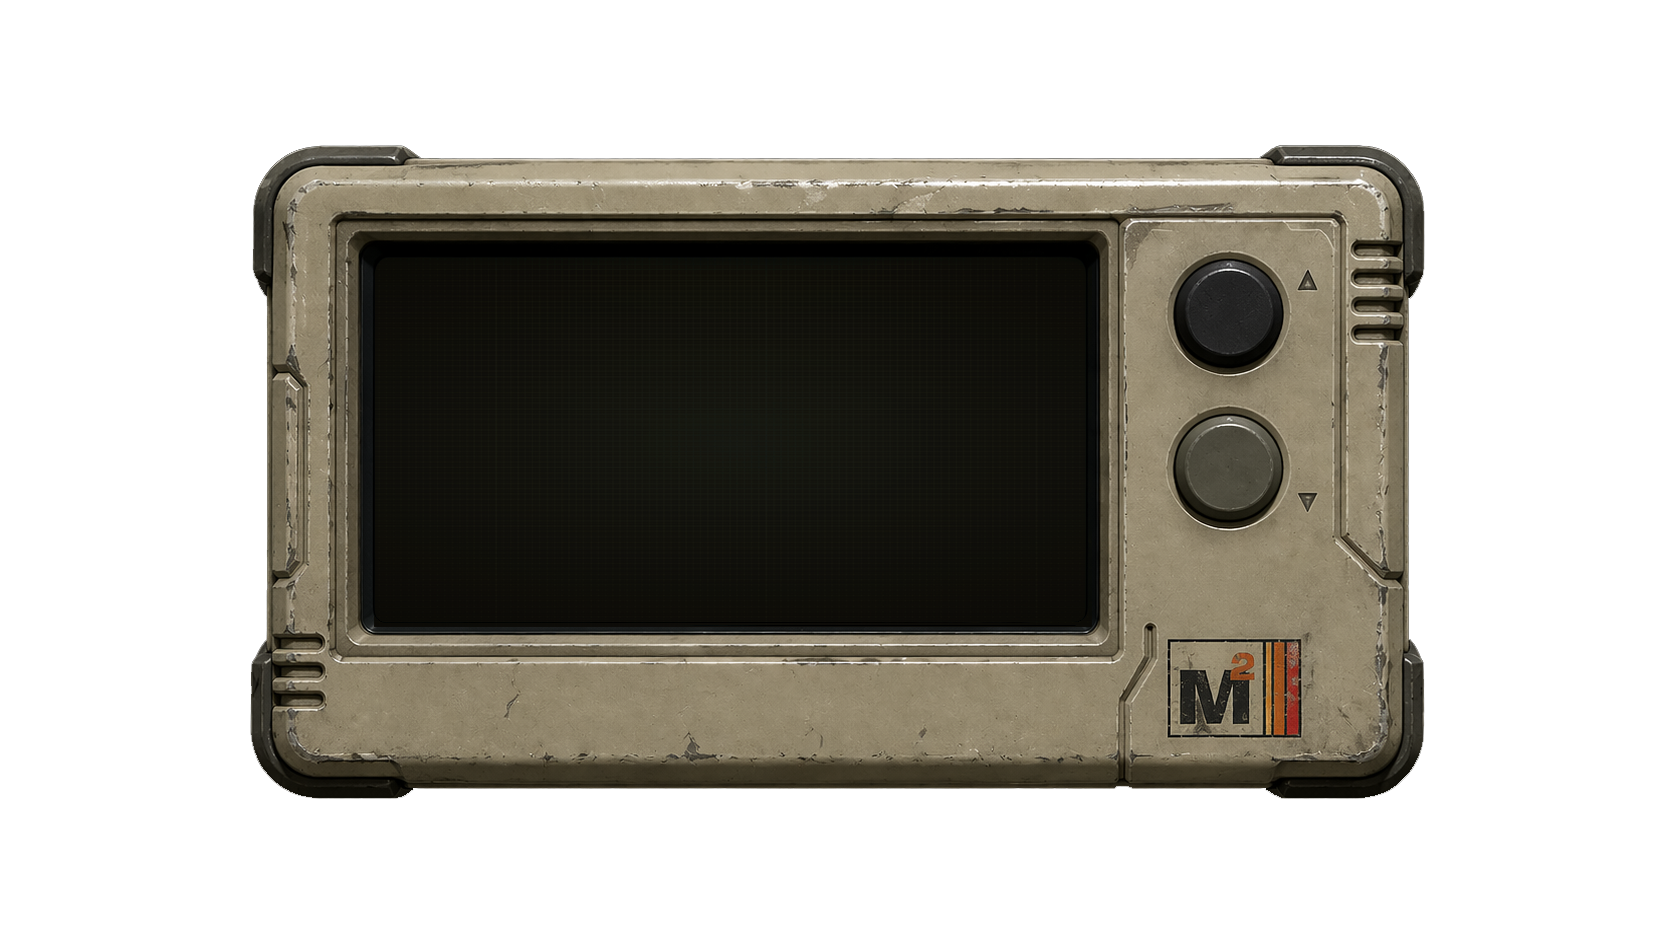
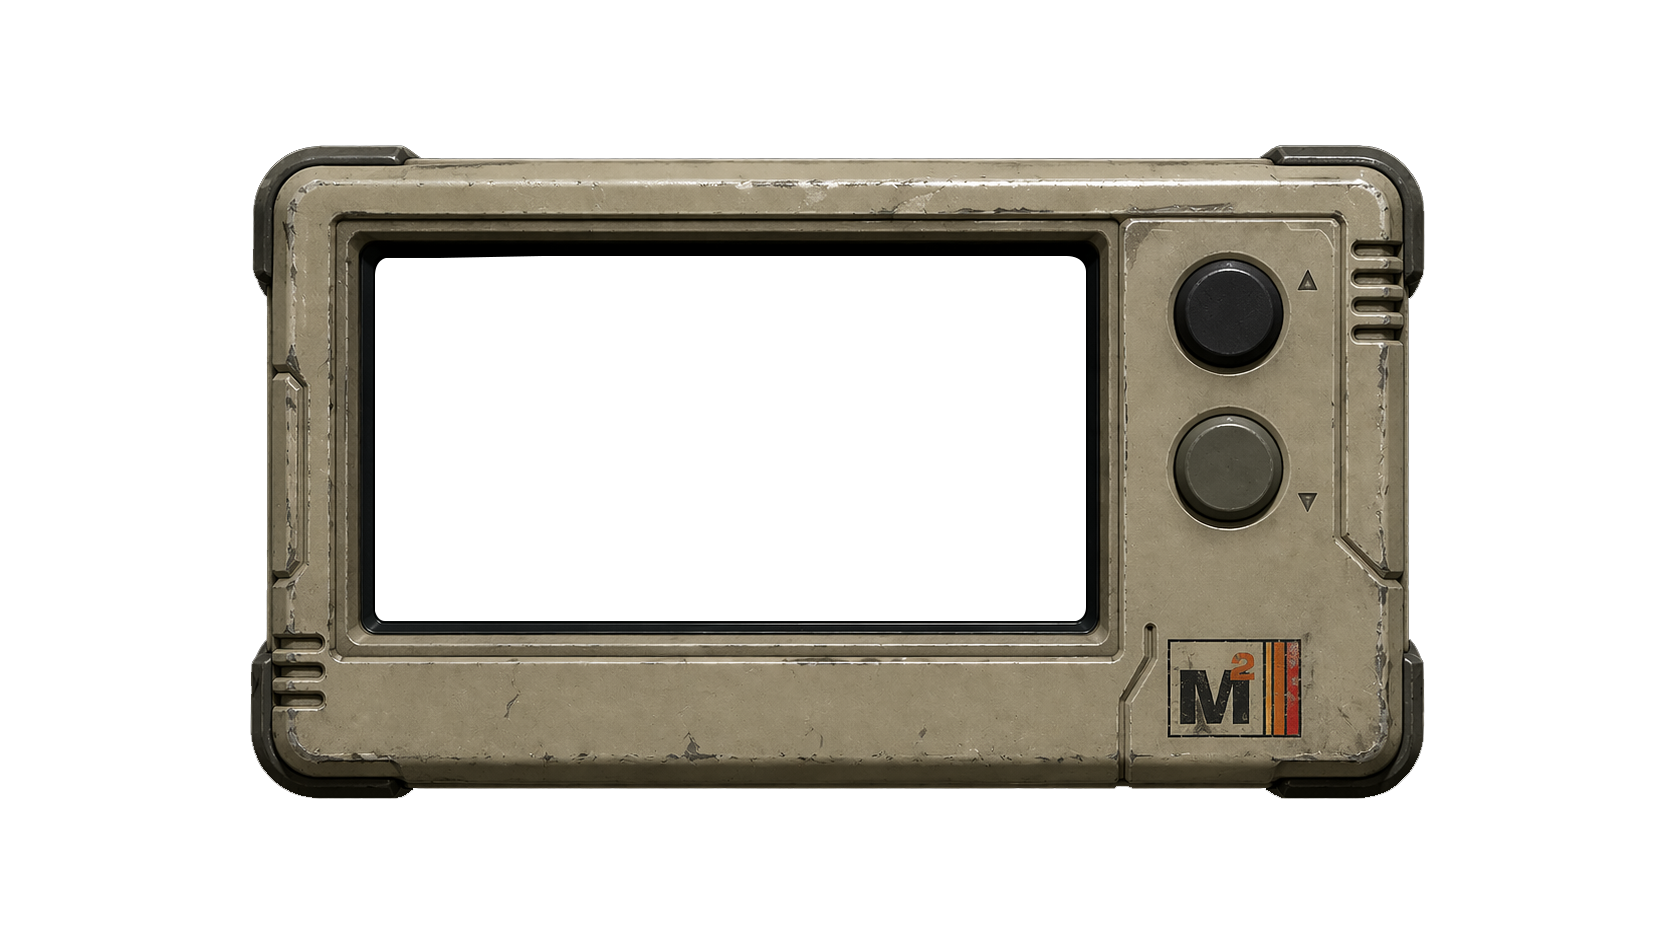
Place landing console screen behind frame

Changed region(s): [[0.2177, 0.2465, 0.6531, 0.678]]

diff --git a/arecibo_game.html b/arecibo_game.html
@@ -2315,6 +2315,7 @@ body::after {
   width:min(82vw, 1140px);
   aspect-ratio:1678 / 944;
   max-height:82vh;
+  isolation:isolate;
   filter:drop-shadow(0 24px 46px rgba(0,0,0,.46));
 }
 .landing-console-frame {
@@ -2322,15 +2323,17 @@ body::after {
   inset:0;
   background:url('assets/console-aventure.png') center / contain no-repeat;
   pointer-events:none;
+  z-index:3;
 }
 .landing-console-screen {
   position:absolute;
-  left:20.7%;
-  top:24.3%;
-  width:46.2%;
-  height:42.6%;
-  border-radius:clamp(16px, 1.5vw, 24px);
+  left:19.7%;
+  top:21.8%;
+  width:46.1%;
+  height:45.3%;
+  border-radius:clamp(18px, 1.8vw, 28px);
   overflow:hidden;
+  z-index:1;
   background:
     radial-gradient(circle at 50% 42%, rgba(59,54,18,.16), transparent 54%),
     linear-gradient(180deg, rgba(4,5,2,.98), rgba(2,3,1,.96));
@@ -2585,10 +2588,10 @@ body::after {
     width:min(96vw, 920px);
   }
   .landing-console-screen {
-    left:18.8%;
-    top:23%;
-    width:48.6%;
-    height:44.4%;
+    left:18.1%;
+    top:21.1%;
+    width:47.6%;
+    height:46.3%;
   }
   .landing-console-copy {
     padding:10px 12px 12px;
